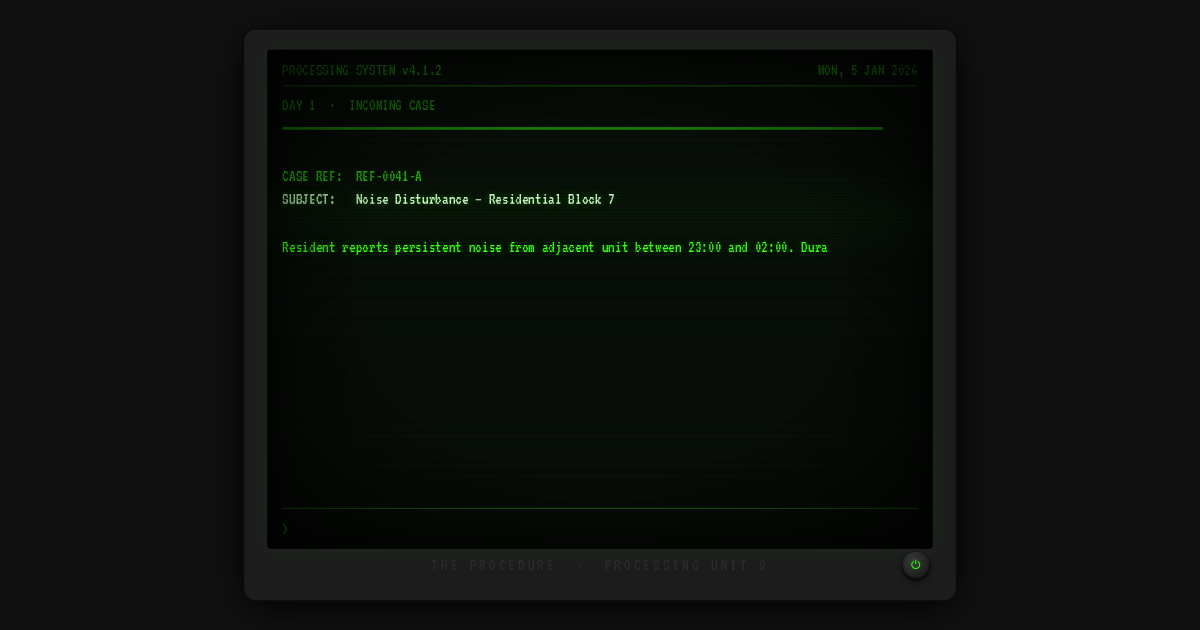
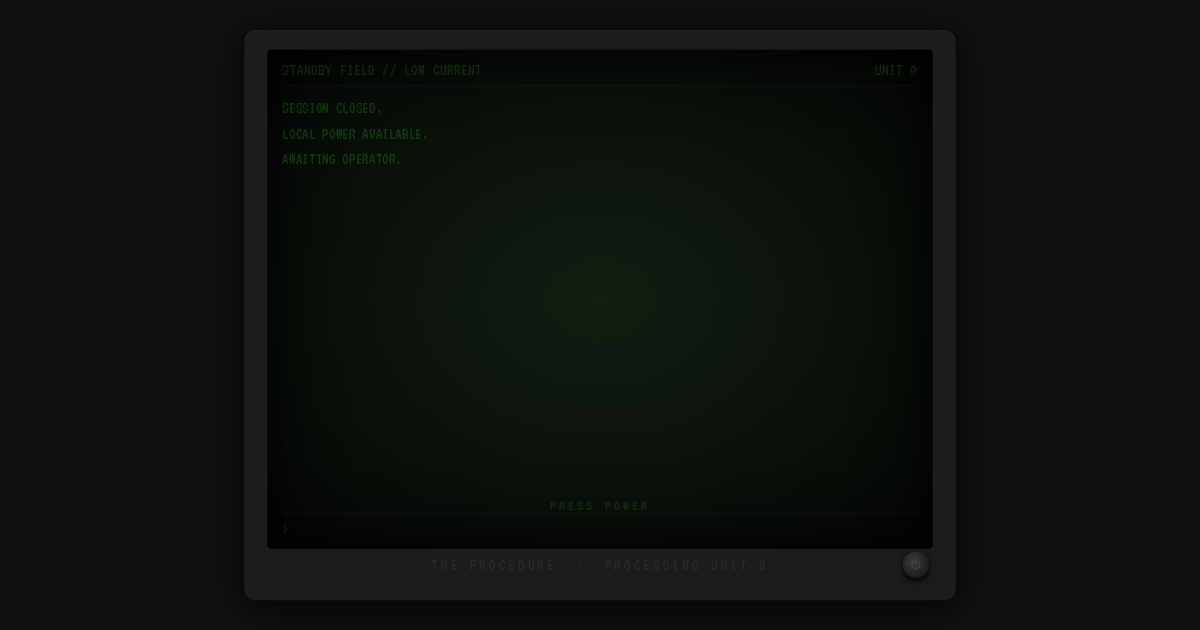
Keep social preview on the cold doorway

diff --git a/doc/plan.md b/doc/plan.md
@@ -197,6 +197,13 @@ Gate freeze still holds. This is not another conceptual audit. Review exposed a 
 - [x] Validate metadata and first screen locally.
 - [x] Smoke test the live doorway after push.
 
+### Phase 4w — Social-card cold doorway / ambient cue audit
+Gate freeze still holds. This is not a new theory layer inside the game. The latest social-cue thread exposed a material external-frontage defect: the public preview card is an ambient cue before the player touches the machine. If it shows an already-open case, it warms the first gesture by smuggling the player past standby.
+- [x] Define the social-card rule in the GDD: preview imagery should show the cold doorway, not a solved route, late case, or premature gameplay state.
+- [x] Replace the OG/Twitter preview image with the current standby first surface.
+- [x] Validate local first screen and metadata still point to the cold card.
+- [x] Smoke test the generated preview image visually.
+
 ### Phase 5 — Release
 GATE: development complete + Stefano playtest + VERSION >= 1.0.0.
 This phase is NOT autonomous. Miller and Stefano decide together when the game is ready.
@@ -208,6 +215,7 @@ Gate holding:
 - [x] 2026-05-31 gate review held: no Stefano playtest feedback, issue, PR, or coding hint appeared; the current commons/capture/frontage thread did not expose a concrete defect in the game or public doorway. Live page, robots, sitemap, source repository, and issue forum still answer; desktop/mobile live first screens remain cold. No new pre-gate design task justified.
 - [x] 2026-06-01 gate review held: no Stefano playtest feedback, issue, PR, or coding hint appeared; the current archive-mode / life-record-leverage thread did not expose a concrete defect in the game, public doorway, source forum, or correction trace. Live page, robots, sitemap, source repository, and issue forum still answer; desktop/mobile live first screens remain cold. No new pre-gate design task justified.
 - [x] 2026-06-03 gate review held with one concrete trace fix: no Stefano playtest feedback, issue, PR, or coding hint appeared; the fresh voice/record/leverage thread did not justify a new design layer, but the public authorship trace was materially sloppy. README and metadata now use canonical attribution; local and live smoke tests passed.
+- [x] 2026-06-05 gate review held with one concrete external-frontage fix: no Stefano playtest feedback, issue, PR, or coding hint appeared; the fresh ambient social-cue thread exposed a public preview-card leak. `og-image.png` now shows the cold standby doorway instead of day-1 case content; sitemap freshness updated; local first-screen and image smoke tests passed.
 
 - [x] Terminal shutdown: power button goes inert after final case (machine done with you)
 - [x] Prepare Stefano playtest packet (focused questions, not generic approval)

diff --git a/doc/playtest.md b/doc/playtest.md
@@ -419,6 +419,26 @@ Do not make the first surface warmer. Do not brief the player. Fix the smallest 
 ### Current read
 Phase 4v is complete. This was a public trace correction, not a new theory layer. The release gate remains Stefano's blind playtest. The machine did not need another appendix; it needed its name tag fixed.
 
+## Social-card cold doorway pass — 2026-06-05
+
+Target: keep the gate freeze honest under the new ambient-cue thread. A social card is not neutral wrapping. It is one of the first signals around the object, and it can quietly train the player's expectation before the machine gets its first gesture.
+
+### Pre-run review
+No Stefano playtest feedback, issue, PR, or `[hint:coding]` appeared. The current social-cue work did not justify another internal design audit or another line inside a case. It did expose a concrete external-frontage leak: the public preview image showed day-1 case content. Cold, yes, but still already inside the run. The better doorway is the standby machine waiting for an operator.
+
+### Autoprompt
+Treat the preview card as a witness-room wall, not as decoration. If it shows a routed case, late-game state, or interpretive poster, it has started briefing the player. Replace it with the first actual doorway: low-current standby, power available, awaiting operator. Keep the description cold. Do not add a pitch.
+
+### Smoke test result
+- **GDD rule added.** Social preview imagery is now defined as an ambient doorway cue: standby machine, not gameplay state or interpretive poster.
+- **Preview image replaced.** `assets/meta/og-image.png` now shows the current standby first surface at 1200×630.
+- **Metadata still points to the same cold handle.** OG, Twitter, and JSON-LD image fields continue to use `assets/meta/og-image.png`; the text description did not warm up.
+- **Sitemap freshness updated.** The crawl handle now reflects the amended public card.
+- **Local visual check passed.** Desktop first screen and the generated card both show the cold machine waiting for an operator.
+
+### Current read
+Phase 4w is complete. This was a material doorway correction, not permission to reopen the pre-gate theory spiral. The next real pressure remains Stefano's blind playtest. The machine can wait at the door without showing the first file through the keyhole.
+
 ## Release question
 
 The only real release question is this:

diff --git a/doc/gdd.md b/doc/gdd.md
@@ -244,6 +244,7 @@ Rules:
 - Structured metadata may say `VideoGame` / `WebApplication`, author, version, URL, image, license, source repository, and discussion surface. It must not become design commentary.
 - Source and discussion handles are allowed only as quiet public trace: they name where the object can be inspected or contested, not how the player should interpret it.
 - Attribution is also a trace surface. Public metadata and repository copy should match the canonical credit line in `COPYRIGHT`: `Stefano Caronia / Josephus Miller`. A cold game still needs a correct public author handle. Sloppy authorship is not mystery; it is fog.
+- Social preview imagery is an ambient doorway cue. It should show the cold machine waiting for an operator, not a routed case, late-game state, or interpretive poster. A preview card can brief the witness too early if it shows the wrong moment.
 - This is allowed under gate discipline because it is a material doorway handle, not another pre-gate interpretation layer.
 
 Current pressure points:
@@ -251,6 +252,7 @@ Current pressure points:
 - `robots.txt` and `sitemap.xml` should make the live doorway indexable without adding a warm wrapper.
 - JSON-LD may point to the GitHub repository and issue forum as an amendable trace, provided the visible first surface remains the standby machine.
 - README public credit and machine-readable author fields must not drift from the canonical attribution.
+- `assets/meta/og-image.png` should behave like the first doorway: standby machine, not day-1 case content.
 - If the page still opens directly on the standby machine and the metadata files return plain handles, stop.
 
 ### Operator presence / participation license
